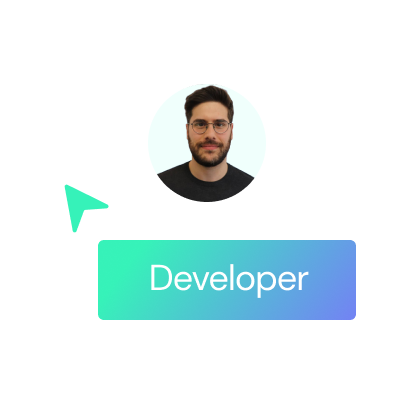
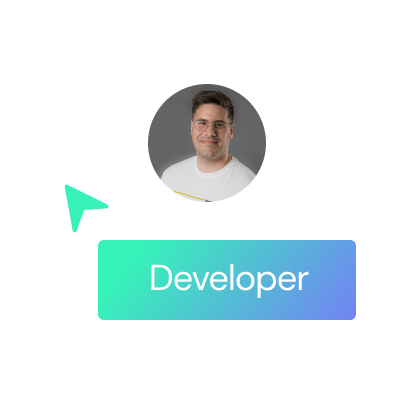
updated images

Changed region(s): [[0.3582, 0.209, 0.6866, 0.5075]]

diff --git a/src/pages/Index.vue b/src/pages/Index.vue
@@ -23,7 +23,9 @@
                 alt="dev"
               />
               <g-image
-                src="~/assets/images/deco-strategist.png"
+              :src="
+                  require(`~/assets/images/deco-strategist-${randomNumberStrategist}.png`)
+                "
                 class="heroHome__decoStrategist mouse-effect3"
                 alt="dev"
               />
@@ -487,6 +489,7 @@ export default {
       isIntersectingElement: false,
       randomNumberDeveloper: this.getRandomNumberDeveloper(),
       randomNumberDesigner: this.getRandomNumberDesigner(),
+      randomNumberStrategist: this.getRandomNumberStrategist(),
     };
   },
   mounted() {
@@ -586,6 +589,9 @@ export default {
     setInterval(() => {
       this.randomNumberDeveloper = this.getRandomNumberDeveloper();
     }, 1500);
+    setInterval(() => {
+      this.randomNumberStrategist = this.getRandomNumberStrategist();
+    }, 3000);
   },
   methods: {
     getRandomNumberDeveloper() {
@@ -593,6 +599,9 @@ export default {
     },
     getRandomNumberDesigner() {
       return Math.floor(Math.random() * 3) + 1;
+    },
+    getRandomNumberStrategist() {
+      return Math.floor(Math.random() * 4) + 1;
     },
     onIntersectionElement(value) {
       this.isIntersectingElement = value;
